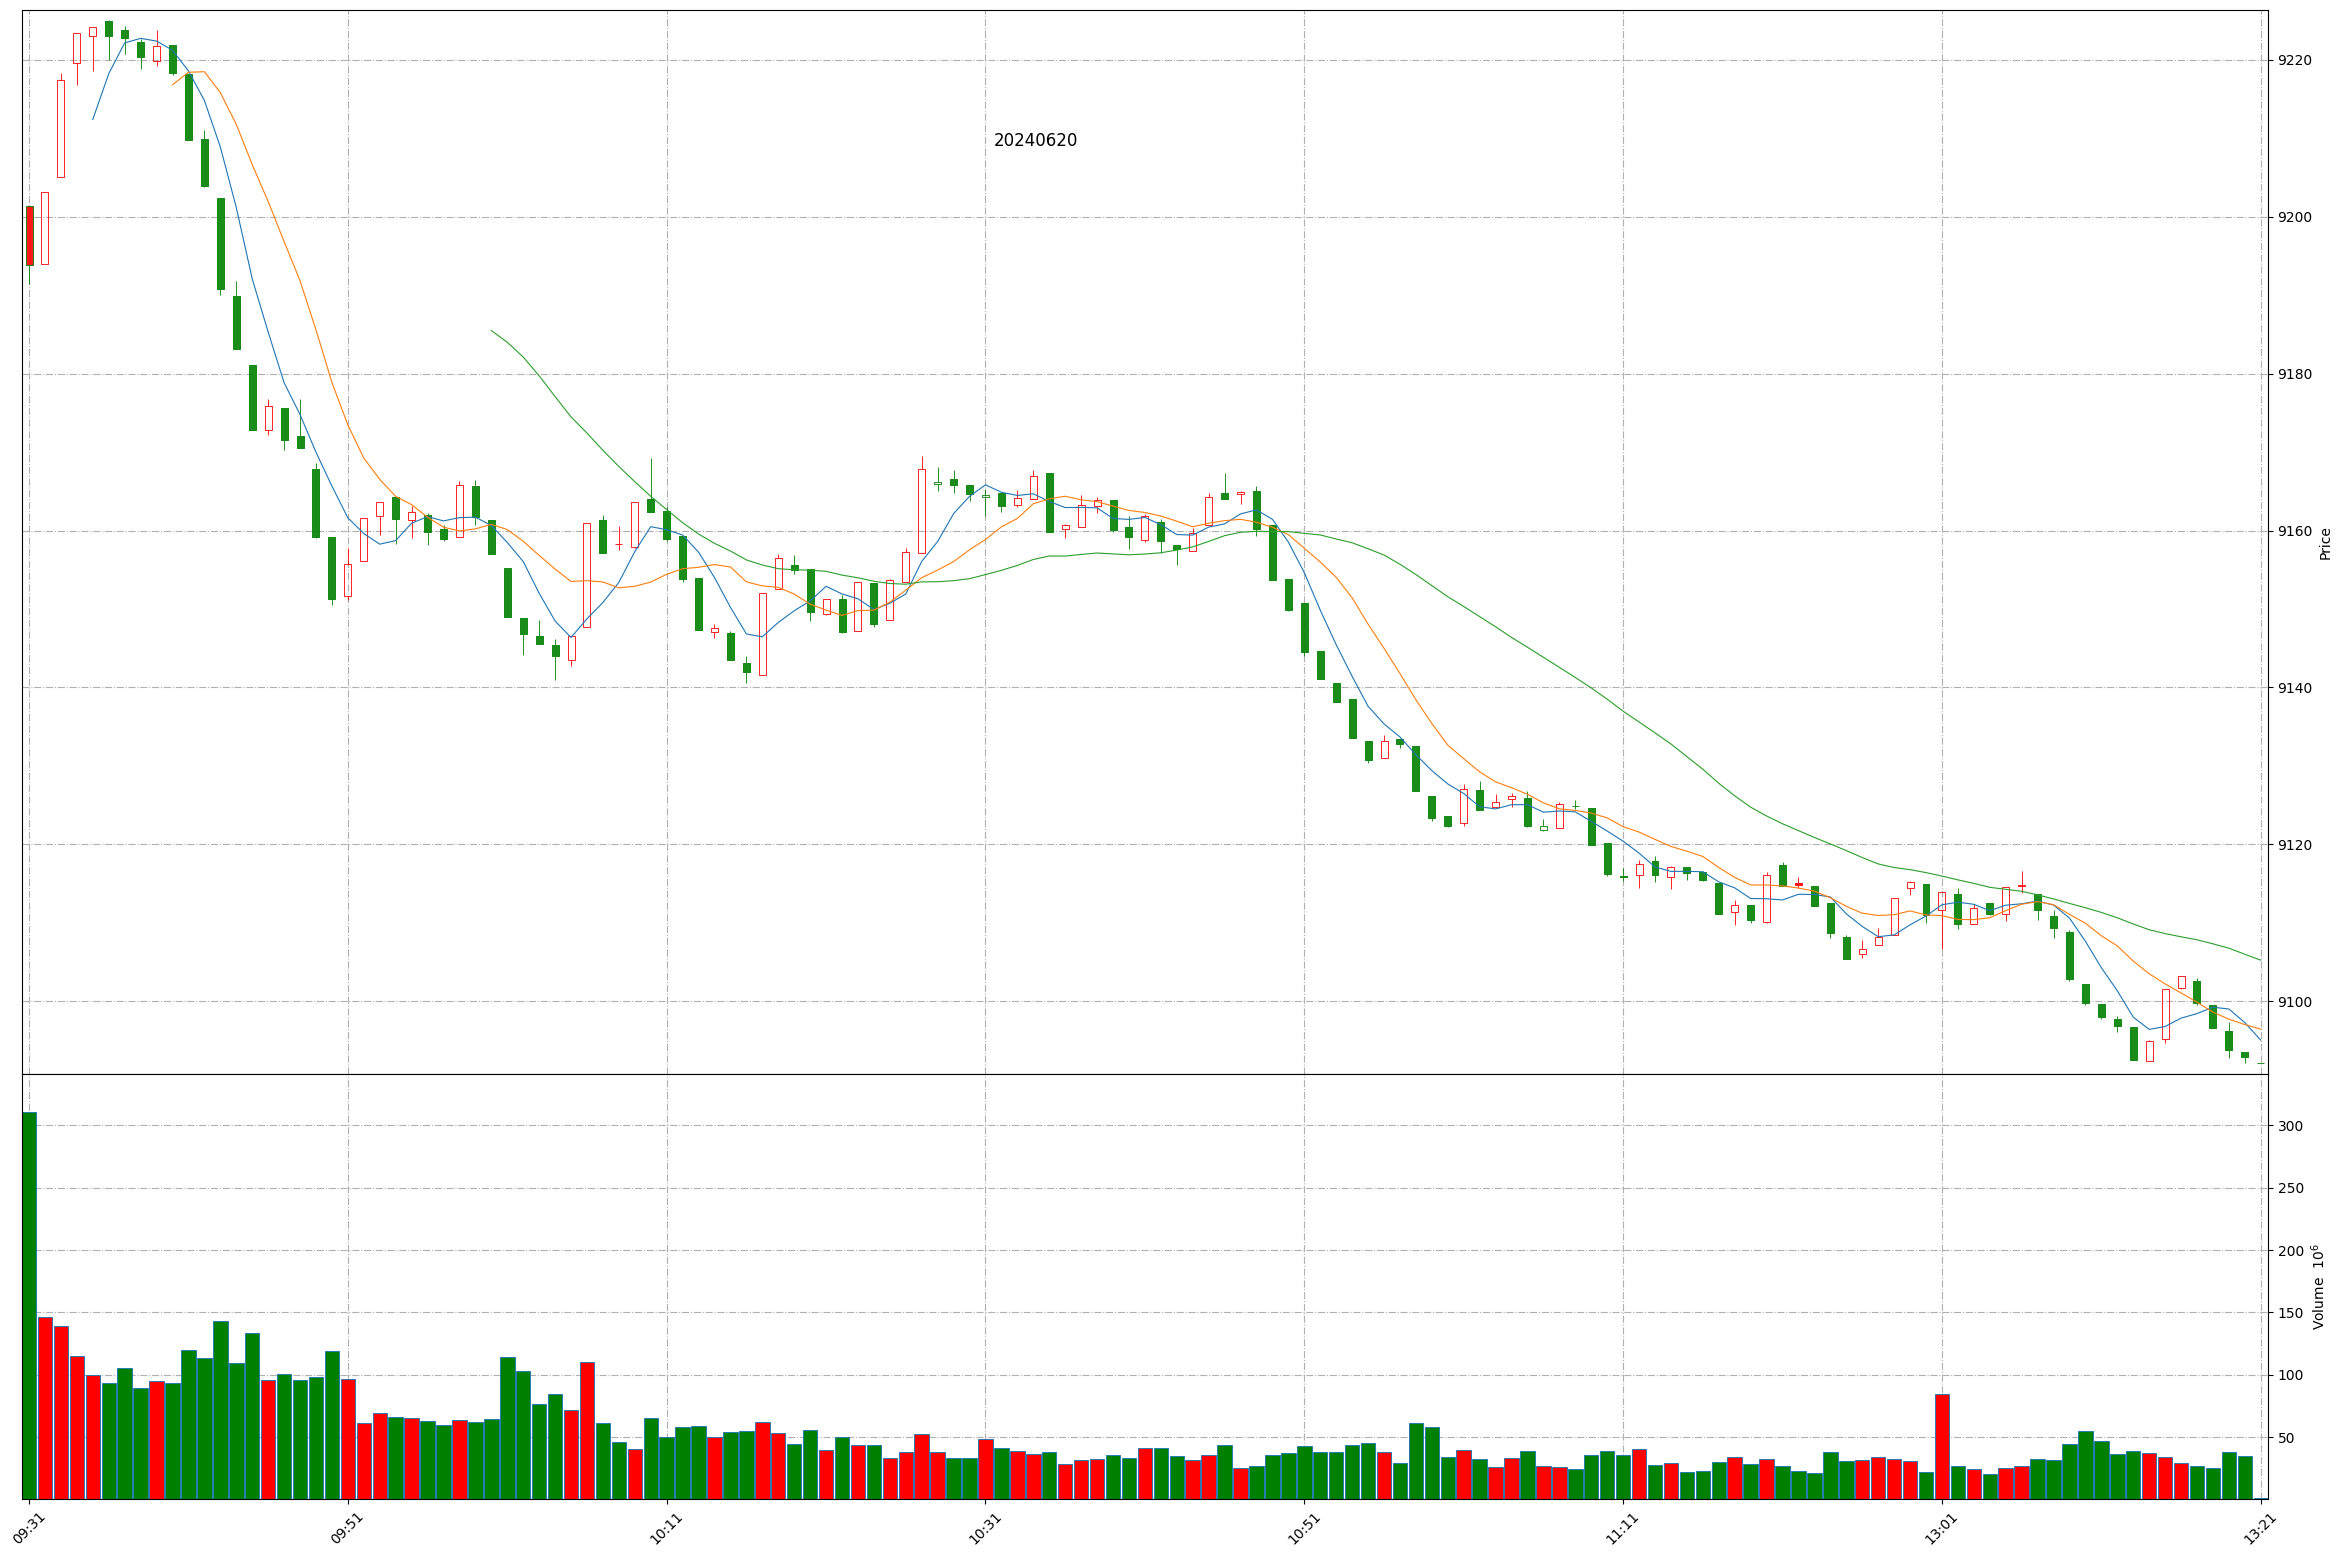
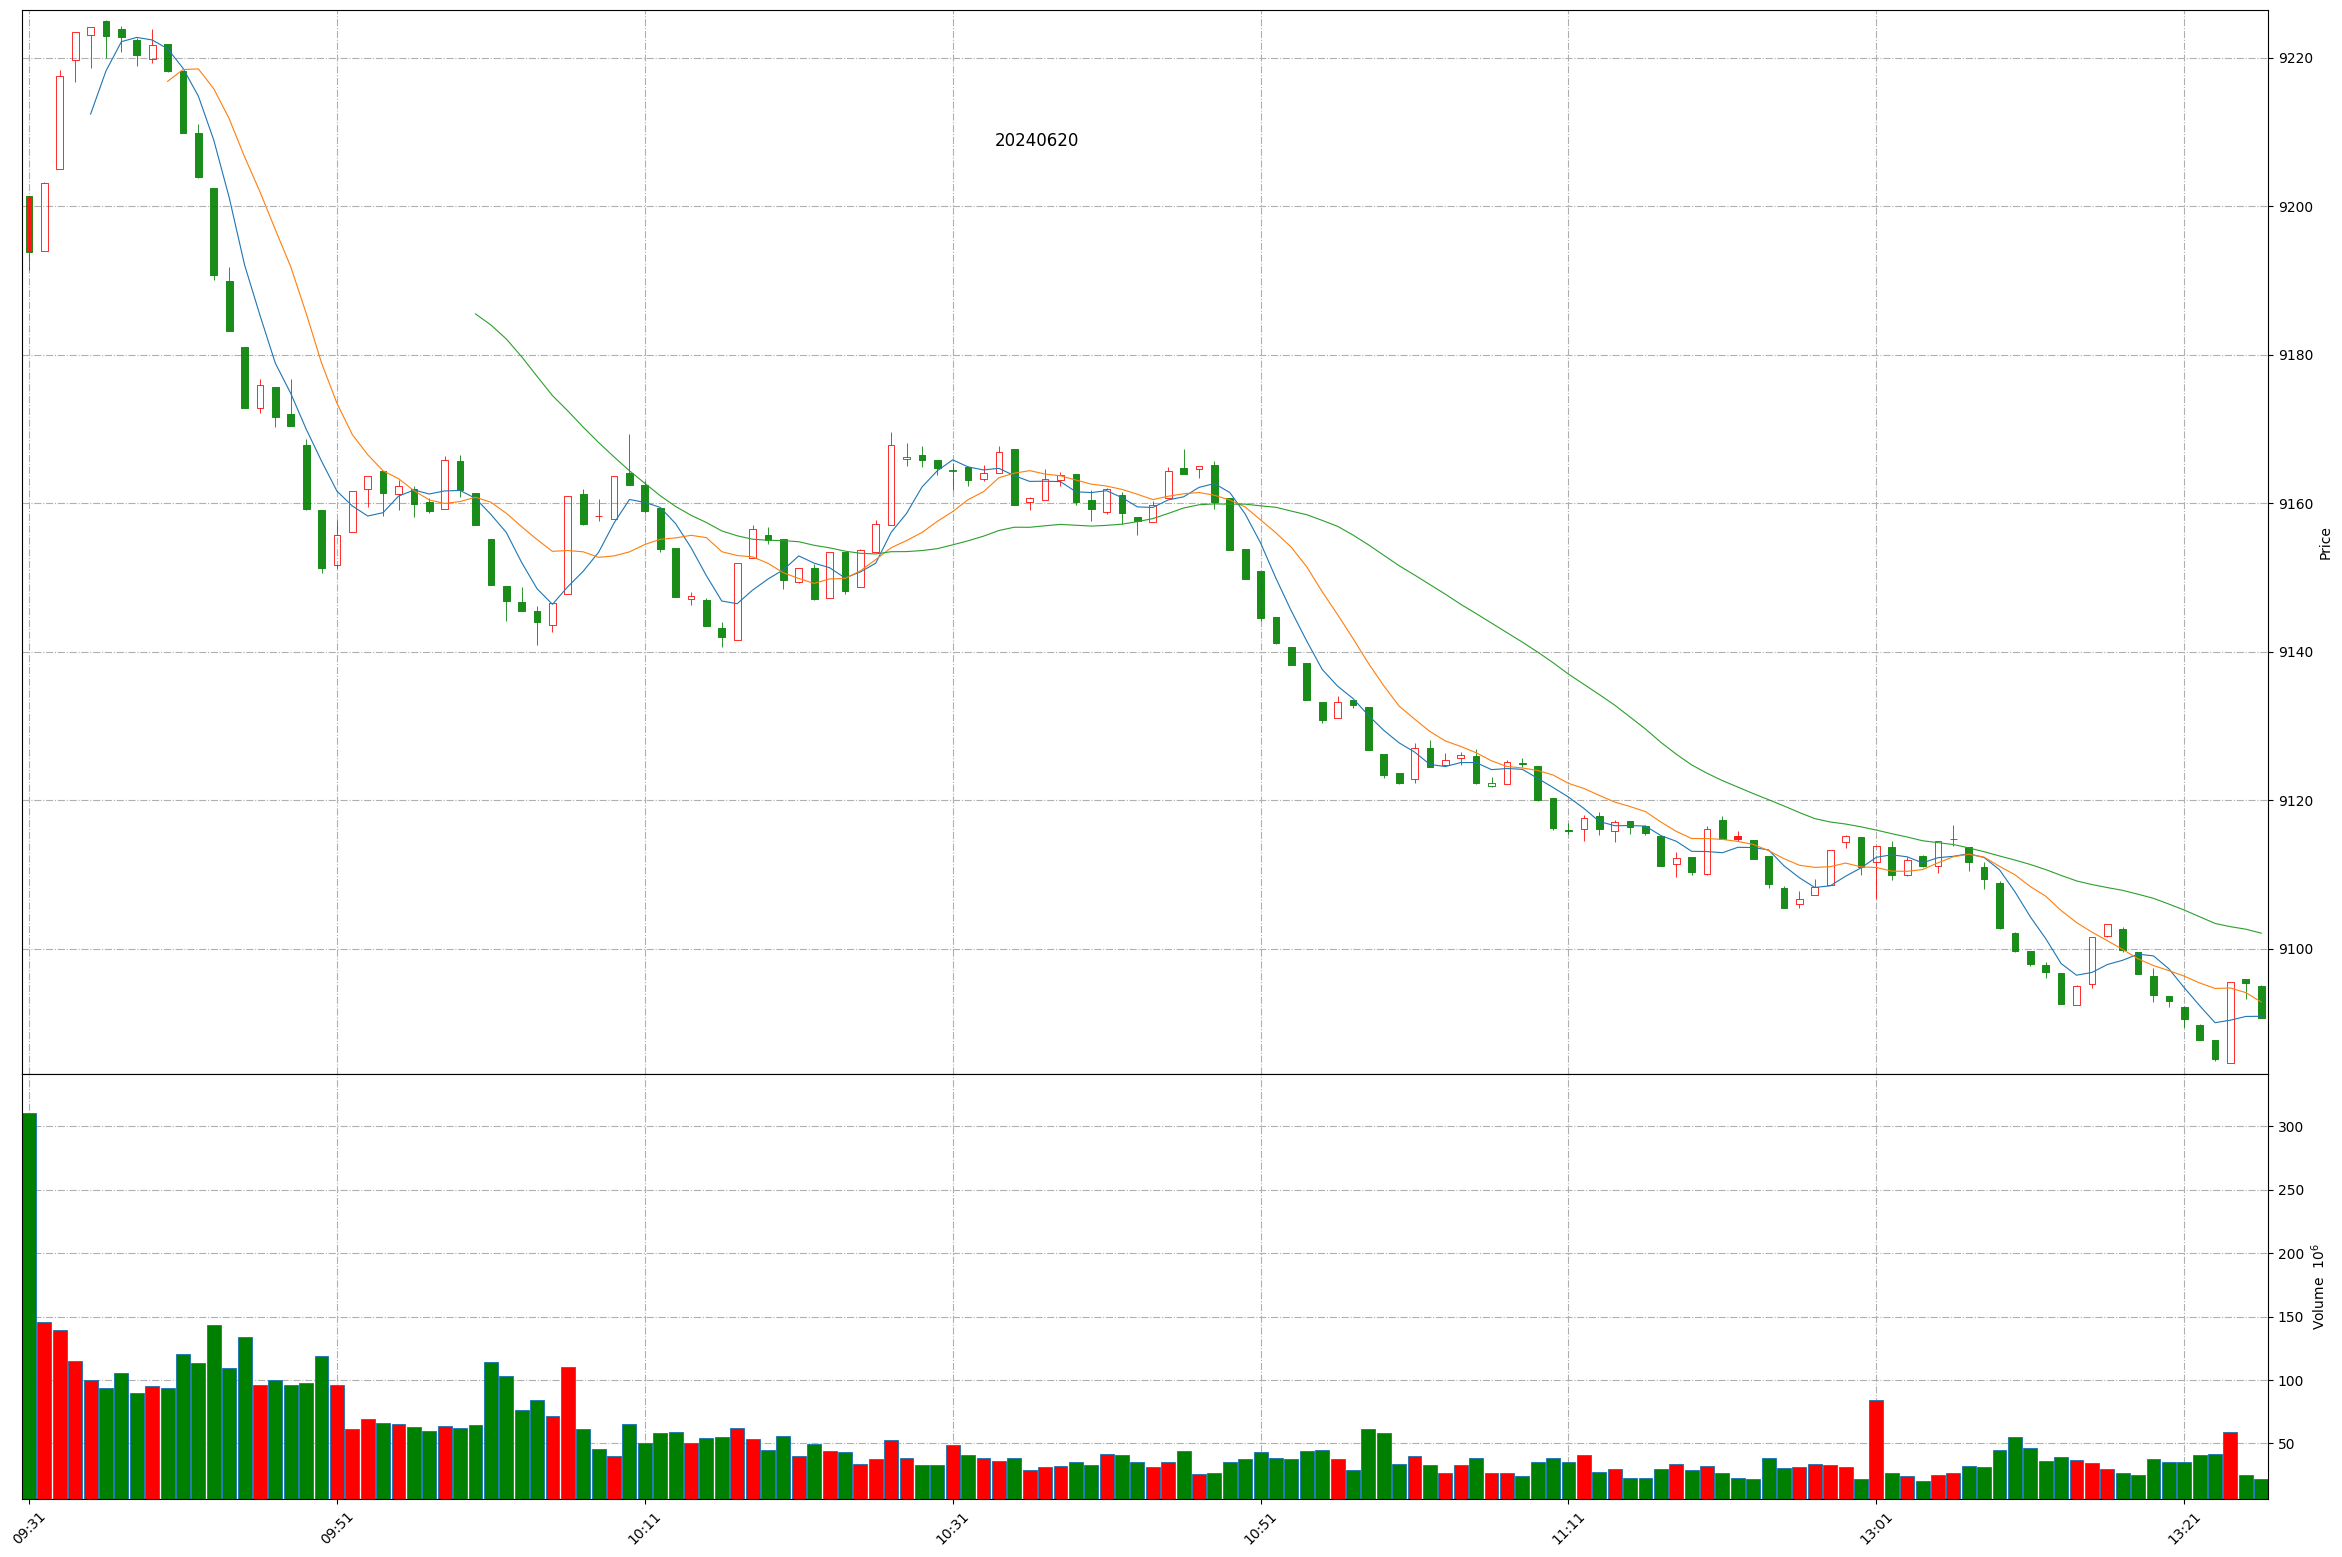
Github action update at 2024-06-20 13:26:07.

diff --git a/README.md b/README.md
@@ -1,11 +1,11 @@
 
 # Daily-A-share-market-quotes 每日 A 股指数（5min 更新）- 20240620
 
-### 上证指数 20240620 13:20
+### 上证指数 20240620 13:26
 ![](./fig/2024/6/20240620-sh000001.png)
 
-### 深证成指 20240620 13:20
+### 深证成指 20240620 13:26
 ![](./fig/2024/6/20240620-sz399001.png)
 
-### 北证50 20240620 13:20
+### 北证50 20240620 13:26
 ![](./fig/2024/6/20240620-bj899050.png)
